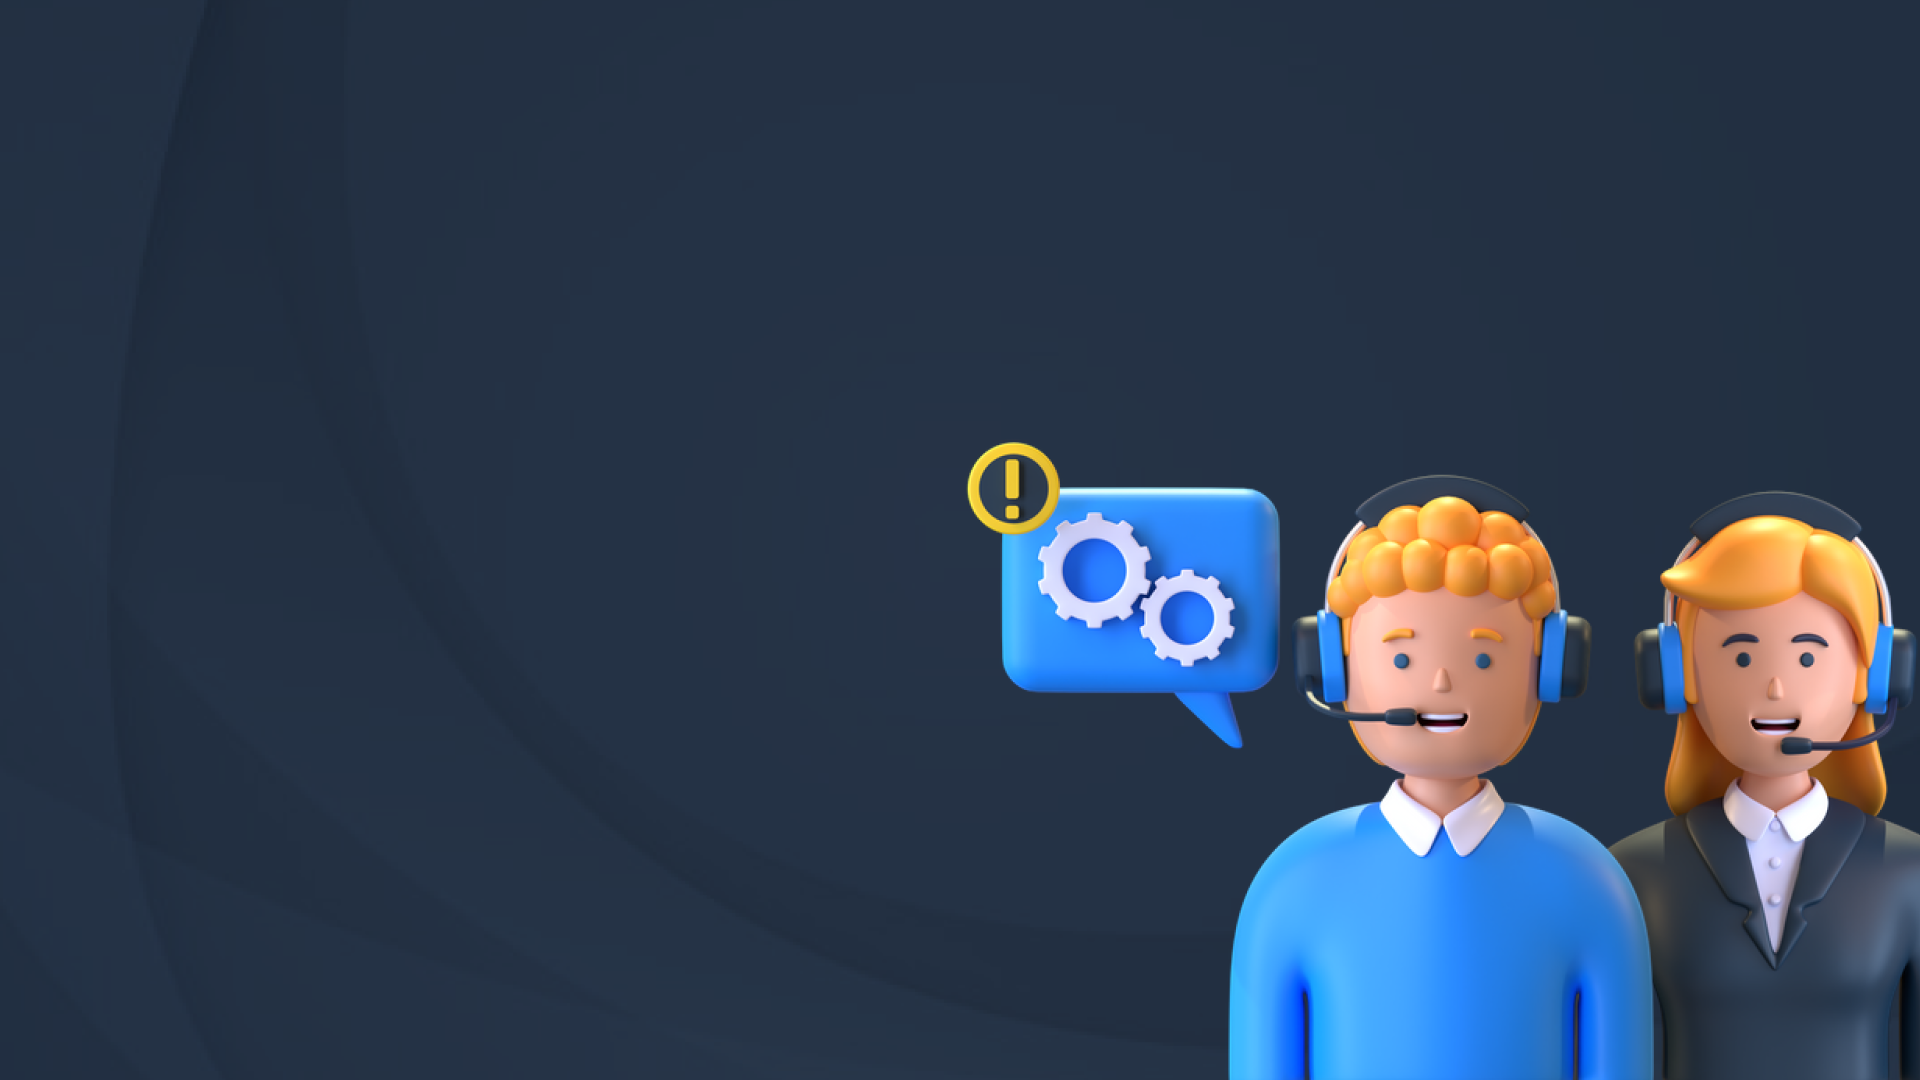
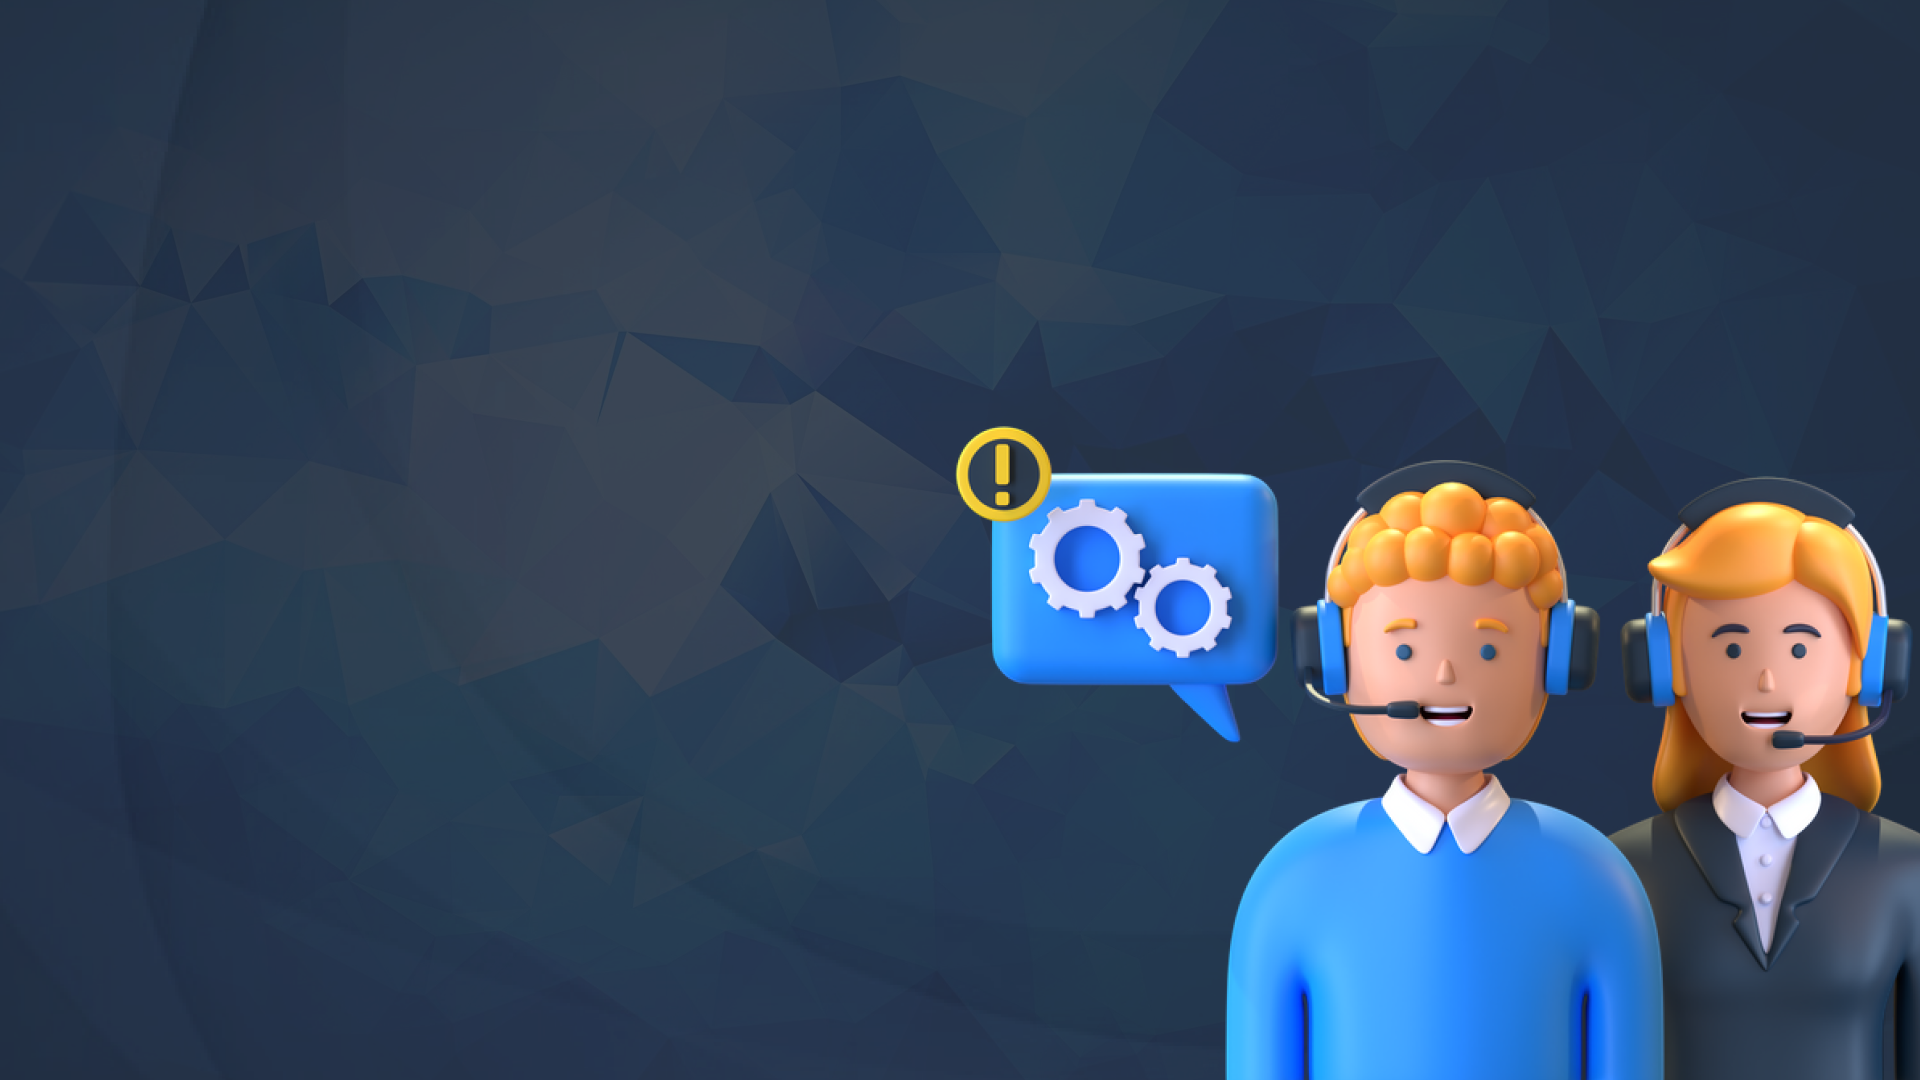
-v 1.0.8

diff --git a/Firmaprofile_MusteriGozunden.html b/Firmaprofile_MusteriGozunden.html
@@ -216,8 +216,6 @@
 
   let form = document.querySelector("#eklenecekBilgi")
 
-  
-
   form.addEventListener("submit", ekle)
 
   function ekle(){
@@ -233,13 +231,10 @@
     console.log(inputBox.value)
     console.log(inputBoxDetails.value)
 
-
-  
-
     
     let eklenecekCard = `
     <div class="card mb-3" id="silinecekOge" style="max-width: 100%;">
-        <div class="card-header bg-transparent" id="durumSon" style="color: green; font-weight: bold; text-align: center;">Çözüldü</div>
+        <div class="card-header bg-transparent" id="durumSon" style="color: orange; font-weight: bold; text-align: center;">Sıraya Alındı</div>
         <div class="card-body">
           <h5 class="card-title"> ${inputBox.value} </h5>
           <p class="card-text"> ${inputBoxDetails.value} </p>

diff --git a/css/dashboard.css b/css/dashboard.css
@@ -13,7 +13,7 @@
 
 body{
     background-color: #1C1C1C;
-    background-image: url(3dBackProfile.png);
+    background-image: url(backEdited.png);
     background-size: cover;
     background-position: center center;
     font-family: 'Poppins', sans-serif;

diff --git a/css/musteriGozundenFirma.css b/css/musteriGozundenFirma.css
@@ -12,7 +12,7 @@
 
 body{
     background-color: #1C1C1C;
-    background-image: url(3dBackProfile.png);
+    background-image: url(backEdited.png);
     background-size: cover;
     background-position: center center;
     font-family: 'Poppins', sans-serif;

diff --git a/css/musteriProfile.css b/css/musteriProfile.css
@@ -1,6 +1,6 @@
 body{
     background-color: #1C1C1C;
-    background-image: url(3dBackProfile.png);
+    background-image: url(backEdited.png);
     background-size: cover;
     background-position: center center;
     font-family: 'Poppins', sans-serif;

diff --git a/kayitOl.html b/kayitOl.html
@@ -42,7 +42,7 @@
     </div>
     <div class="kayitOl">
         Hesabın var mı?
-        <a href="login.html"><strong>Giriş Yap</strong></a>
+        <a href="loginMusteri.html"><strong>Giriş Yap</strong></a>
     </div>
 </center>
 </body>
